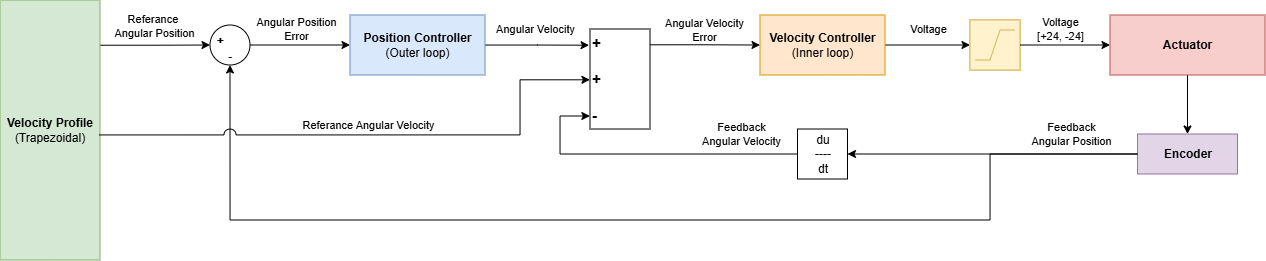
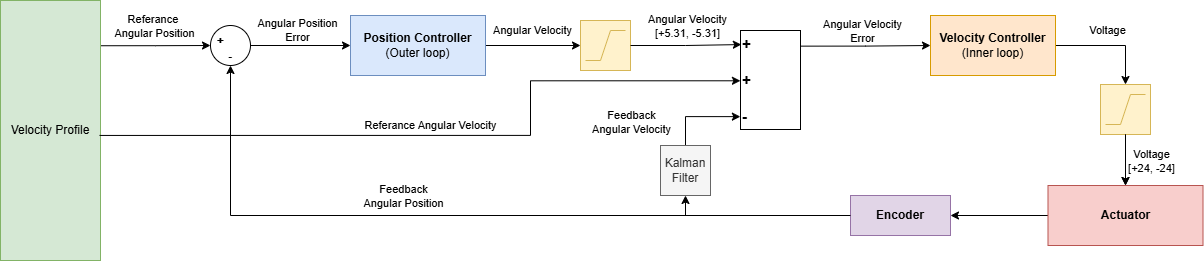
Result

Changed region(s): [[0.0, 0.0, 1.0, 1.0], [0.3073, 0.705, 0.3688, 0.7356]]

diff --git a/STM32/Core/Src/main.c b/STM32/Core/Src/main.c
@@ -120,9 +120,9 @@ float Voltage = 0.0f;
 GPIO_PinState relay = GPIO_PIN_RESET;
 GPIO_PinState reset = GPIO_PIN_RESET;
 GPIO_PinState prox = GPIO_PIN_RESET;
-float points[] = { { -355.0f * M_PI / 180.0f }, { 0.0f } };
+float points[] = { { 355.0f * M_PI / 180.0f }, { 0.0f } };
 float KF_Q = 1e-3f;
-float VMAX = 2.655f;
+float VMAX = 5.31f;
 /* USER CODE END PV */
 
 /* Private function prototypes -----------------------------------------------*/
@@ -283,6 +283,12 @@ void Init() {
 
 	// Inner loop: velocity → voltage             (PI)
 	PID_Init(&PI_Velo, 6.7f, 0.093f, 0.0f, 24.0f, true, 12.0f);
+
+//	// Outer loop: position → velocity reference  (PD)
+//	PID_Init(&PD_Pos, 0.5f, 0.0f, 0.36f, 5.31f, false, 0.0f);
+//
+//	// Inner loop: velocity → voltage             (PI)
+//	PID_Init(&PI_Velo, 7.2f, 0.12f, 0.0f, 24.0f, true, 12.0f);
 
 	// Trajectory
 	MJT_Goal(&traj, points, 2, 0.0f, VMAX);